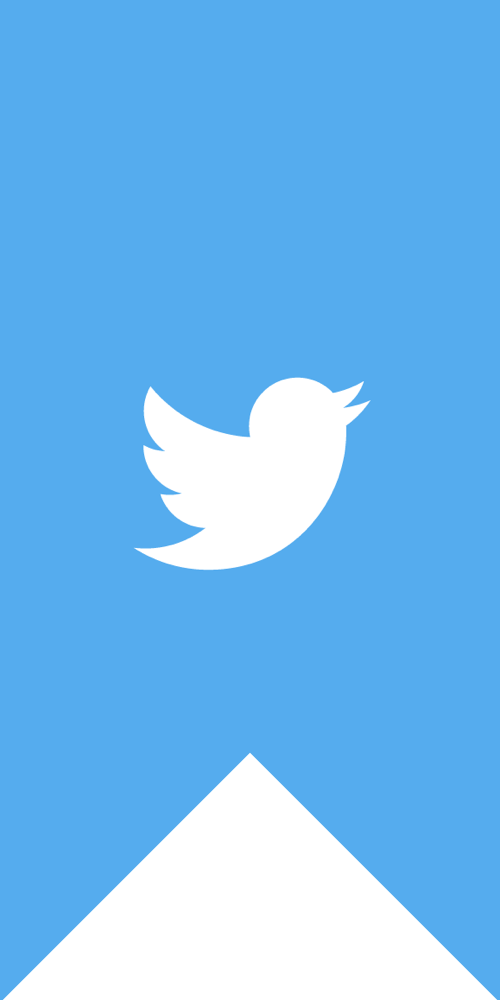
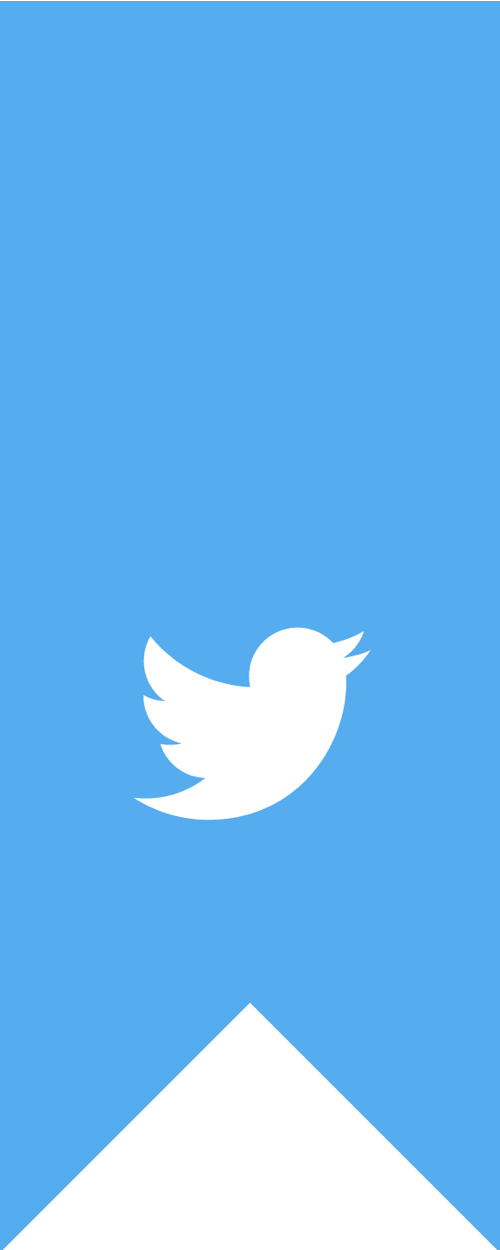
animations
banner and arrow animations

diff --git a/index.html b/index.html
@@ -25,13 +25,13 @@
 	}(document, 'script', 'facebook-jssdk'));</script>
 
 	<header>
-		<div data-href="https://developers.facebook.com/docs/plugins/" data-layout="button" data-size="small" data-mobile-iframe="true"><a class="fb-xfbml-parse-ignore" target="_blank" href="https://www.facebook.com/sharer/sharer.php?u=https://5years.dormroomfund.com"><img src="Media/Banner/FBBanner.png" width="37.5" height="75" alt = "Facebook Banner"/></a></div>
+		<div data-href="https://developers.facebook.com/docs/plugins/" data-layout="button" data-size="small" data-mobile-iframe="true"><a class="Banners"class="fb-xfbml-parse-ignore" target="_blank" href="https://www.facebook.com/sharer/sharer.php?u=https://5years.dormroomfund.com"><img src="Media/Banner/FBBanner.png" width="37.5" height="93.75" alt="Facebook Banner"/></a></div>
 		<!-- https://developers.facebook.com/docs/plugins/share-button/ -->
 
-		<a href="https://twitter.com/share?&amp;related=twitterapi%2Ctwitter&amp;text=What%20are%20students%20capable%20of%20building?%20@DormRoomFund%20dove%20into%205%20years%20of%20portfolio%20data%20to%20find%20out%20-->" target="_blank"><img src="Media/Banner/TwitterBanner.png" width="37.5" height="75" alt="Twitter Banner"/></a>
+		<a class="Banners" href="https://twitter.com/share?&amp;related=twitterapi%2Ctwitter&amp;text=What%20are%20students%20capable%20of%20building?%20@DormRoomFund%20dove%20into%205%20years%20of%20portfolio%20data%20to%20find%20out%20-->" target="_blank"><img src="Media/Banner/TwitterBanner.png" width="37.5" height="93.75" alt="Twitter Banner"/></a>
 		<!-- https://dev.twitter.com/web/tweet-button/parameters -->
 
-		<a href="https://www.linkedin.com/shareArticle?mini=true&url=https://5years.dormroomfund.com/&title=Dorm%20Room%20Fund%20Five%20Year%20Report&summary=5%20Year%20Report&source=LinkedIn" target="_blank"><img src="Media/Banner/LinkedInBanner.png" width="37.5" height="75" alt = "Linkedin Banner"/></a>
+		<a class="Banners" href="https://www.linkedin.com/shareArticle?mini=true&url=https://5years.dormroomfund.com/&title=Dorm%20Room%20Fund%20Five%20Year%20Report&summary=5%20Year%20Report&source=LinkedIn" target="_blank"><img src="Media/Banner/LinkedInBanner.png" width="37.5" height="93.75" alt = "Linkedin Banner"/></a>
 		<!-- https://developer.linkedin.com/docs/share-on-linkedin -->
 
   		</div>

diff --git a/js/app.js b/js/app.js
@@ -1,25 +1,28 @@
-// $(document).ready(function(){
-//   // Run our function
-//   smoothScrollWithoutHash( 'a[href*="#"]' );
-// });
+$(document).ready(function(){
 
-// var scroll = new SmoothScroll();
 
-// var smoothScrollWithoutHash = function (selector, settings) {
-//   /**
-//    * If smooth scroll element clicked, animate scroll
-//    */
-//   var clickHandler = function (event) {
-//     var toggle = event.target.closest( selector );
-//     console.log(toggle);
-//     if ( !toggle || toggle.tagName.toLowerCase() !== 'a' ) return;
-//     console.log(toggle.hash);
-//     var anchor = document.querySelector( toggle.hash );
-//     if ( !anchor ) return;
+  $('.Banners').mouseenter(function(){
+    $(this).find('img').finish().show()
+    .animate({'margin-top':'15px'}, 250);
+  });
+  $('.Banners').mouseleave(function(){
+    $(this).find('img').finish().show()
+    .animate({'margin-top':'0px'}, 250);
+  });
 
-//     event.preventDefault(); // Prevent default click event
-//     scroll.animateScroll( anchor, toggle, settings || {} ); // Animate scroll
-//   };
+  $('#arrow').mouseenter(function(){
+    arrowhop();
+  });
+});
 
-//   window.addEventListener('click', clickHandler, false );
-// };
+var lastCall = 0;
+function arrowhop() {
+  var now = Date.now();
+  if (lastCall + 500 < now) {
+    lastCall = now;
+    $('#arrow').find('img').finish().show()
+    .animate({'margin-bottom': '15px'}, 200, function(){
+      $(this).animate({'margin-bottom': '0px'}, 200);
+    });
+  }
+}

diff --git a/css/decorate.css b/css/decorate.css
@@ -141,6 +141,10 @@ header a, header div{
 	padding: 0%;
 }
 
+.Banners img{
+	transform: translateY(-20px);
+}
+
 #DRFIconWrapper{
 	position: absolute;
 	width: 100%;
